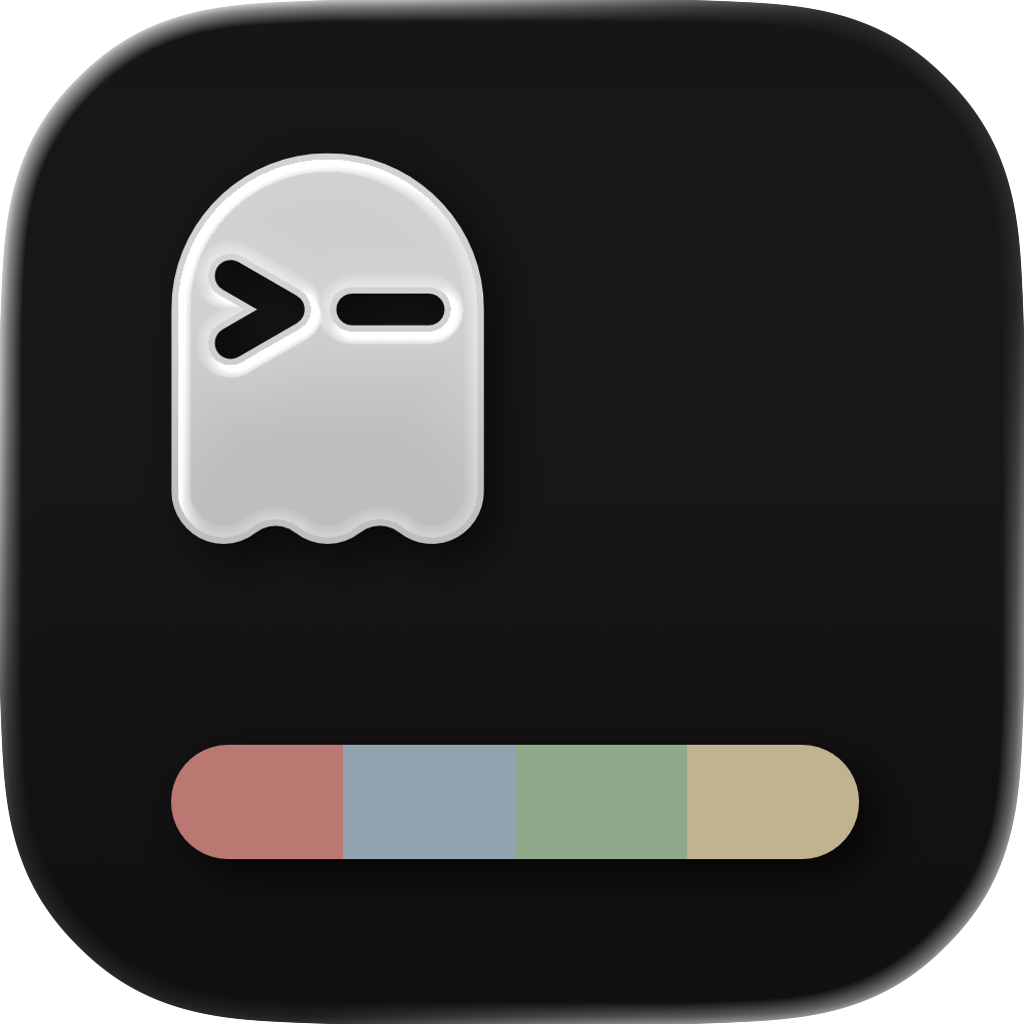
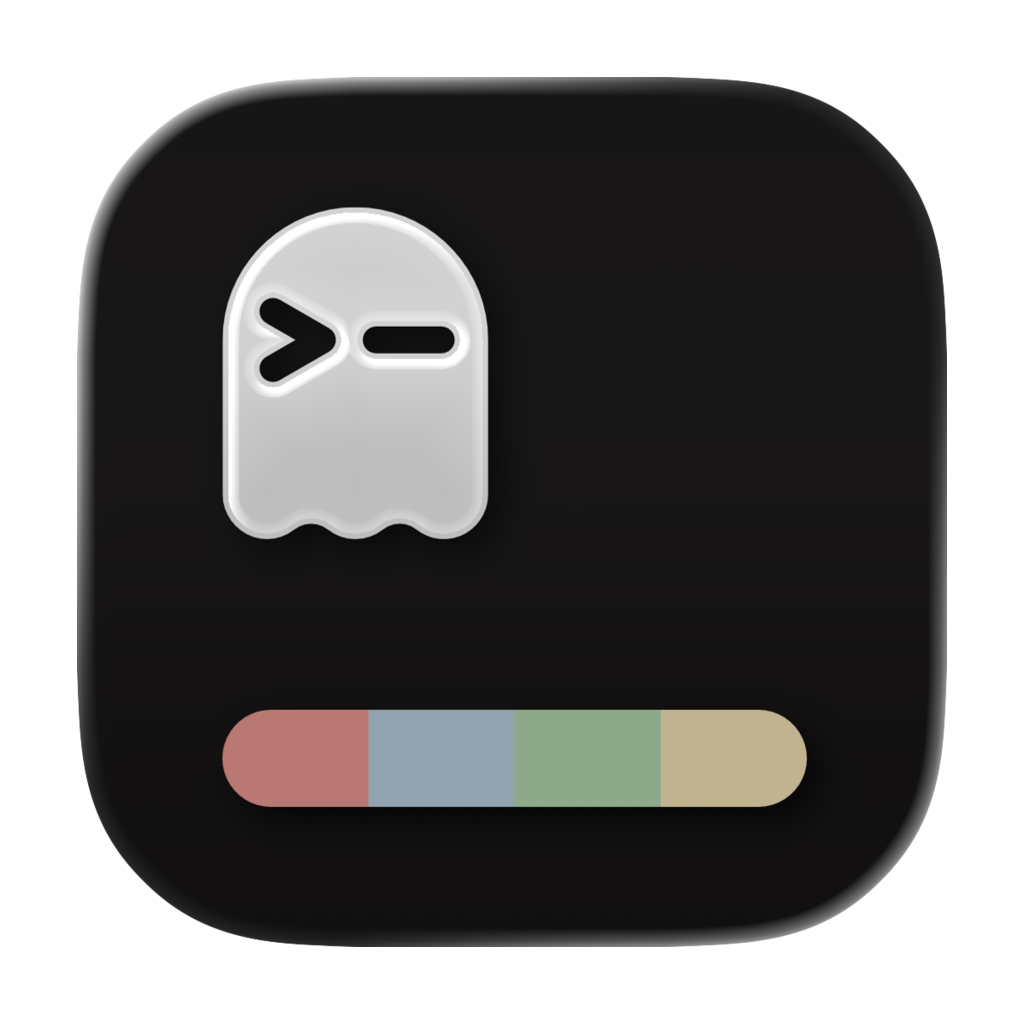
feat: cc alias 加 --effort max + 同步 CLAUDE.md 和编辑器配置
- zshrc: cc alias 加入 --effort max，每次启动自动最高推理
- CLAUDE.md: 更新 skill 指引（web-search/deep-research/browse/react）
- ghostty: 更新自定义图标
- 新增 .claude/hooks, settings.json

diff --git a/.claude/CLAUDE.md b/.claude/CLAUDE.md
@@ -14,14 +14,19 @@
 - Commit message 须包含: 问题描述 / 复现路径 / 修复思路
 </important>
 
-<important if="you need to debug in a browser, inspect web pages, or take screenshots">
-
-- 先 `zsh -ic 'chrome'` 启动 Chrome，再用 chrome-devtools CLI 操作
-</important>
-
 <important if="you need to search the web for current information">
 
-- 用 `web-search` skill（Brave Search API）
+- 用 `/web-search` skill（inferen.sh：Exa + Tavily）
+</important>
+
+<important if="you need to conduct in-depth research on a topic">
+
+- 用 `/deep-research` skill（199-biotechnologies，8 阶段方法论 + 引用验证）
+</important>
+
+<important if="you need to browse the web, inspect a page, take screenshots, or interact with any website">
+
+- 使用 `/browse` skill（gstack），**禁止**使用 `mcp__claude-in-chrome__*` 工具
 </important>
 
 <important if="you are about to use, import, or configure a third-party library">
@@ -29,11 +34,11 @@
 - 用 `context7` skill（`ctx7` CLI）查询最新文档，禁止依赖过时训练数据
 </important>
 
-## gstack
+<important if="you are building React or Next.js applications">
 
-<important if="you need to browse the web, inspect a page, take screenshots, or interact with any website">
-
-- 使用 `/browse` skill（gstack），**禁止**使用 `mcp__claude-in-chrome__*` 工具
+- 用 `vercel-react-best-practices` skill（Vercel 官方 React/Next.js 最佳实践）
 </important>
+
+## gstack
 
 可用 skills: `/office-hours`, `/plan-ceo-review`, `/plan-eng-review`, `/plan-design-review`, `/design-consultation`, `/review`, `/ship`, `/browse`, `/qa`, `/qa-only`, `/design-review`, `/setup-browser-cookies`, `/retro`, `/investigate`, `/document-release`, `/codex`, `/careful`, `/freeze`, `/guard`, `/unfreeze`, `/gstack-upgrade`
